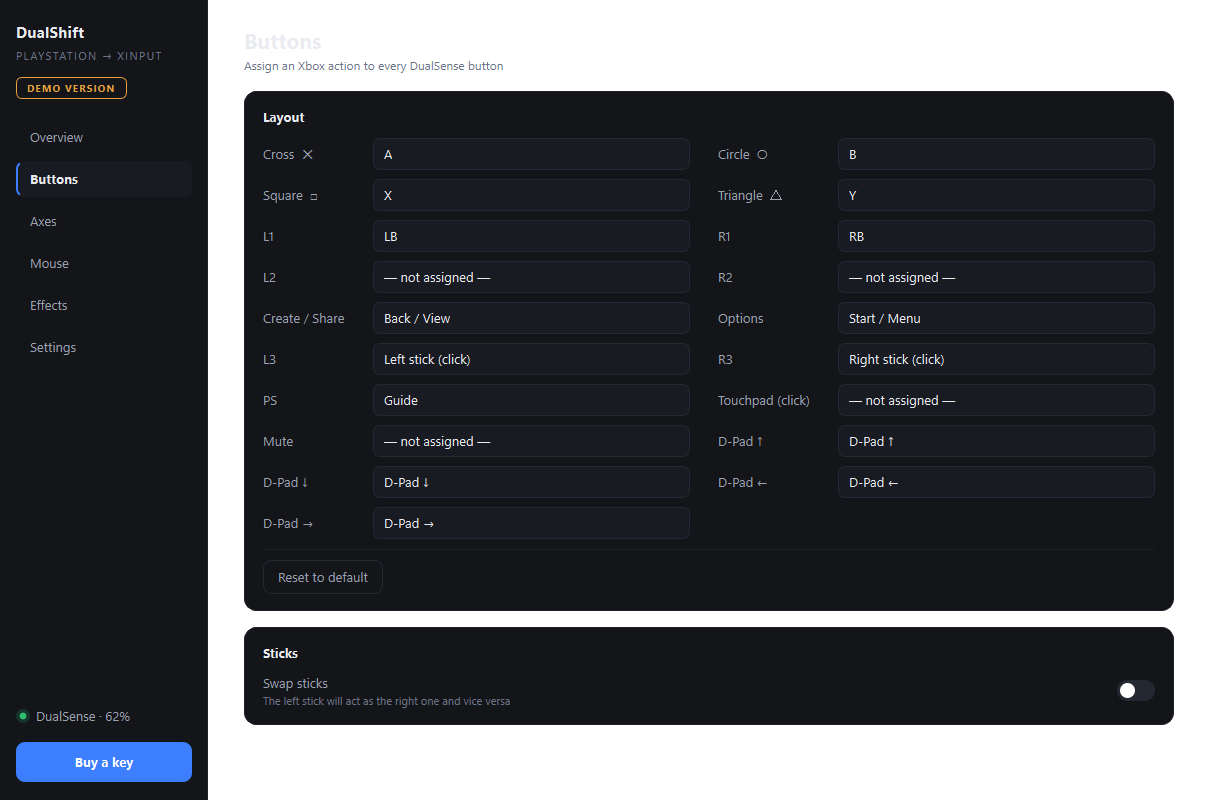
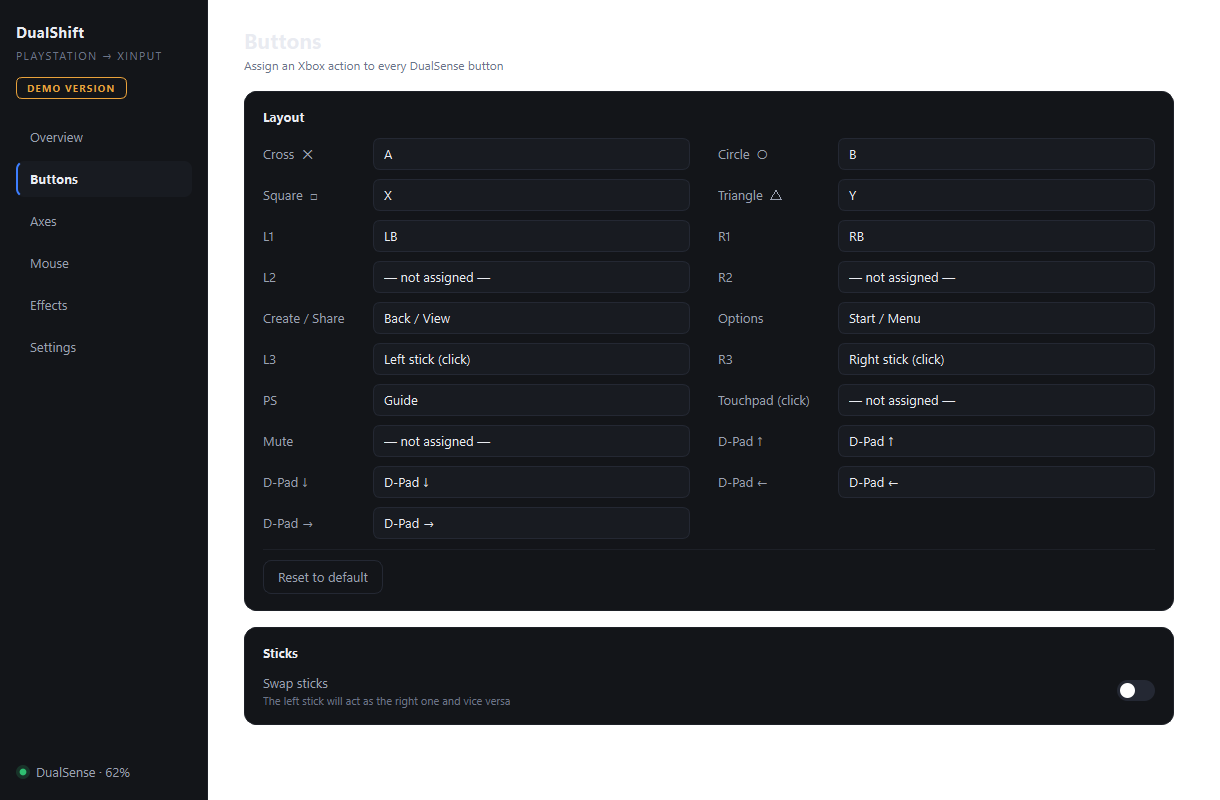
1.0.1 без кнопки в углу: покупка через «Настройки», новый хеш и скриншоты

Changed region(s): [[0.0, 0.875, 0.1557, 1.0]]

diff --git a/docs/release-notes-1.0.1.md b/docs/release-notes-1.0.1.md
@@ -2,7 +2,7 @@ Free for 7 days, every feature unlocked. Windows 10 and 11, 64-bit.
 
 **What's new in 1.0.1**
 
-- **Buy a key right from the app.** A button in the bottom-left corner opens the DualShift bot in Telegram with your computer code already filled in. Pay with Telegram Stars and the key arrives in the same chat — no forms, no copying codes by hand.
+- **Buy a key right from the app.** Settings → License → **Buy a key** opens the DualShift bot in Telegram with your computer code already filled in. Pay with Telegram Stars and the key arrives in the same chat — no forms, no copying codes by hand.
 - The developer credit moved to Settings → About, so the sidebar stays clean.
 
 **What's inside**
@@ -22,7 +22,7 @@ Already have 1.0.0? Just install on top — your settings, profiles and trial st
 
 **Verify the download**
 
[2 lines of base64/hex data omitted]
 
 ```powershell
 Get-FileHash "$HOME\Downloads\DualShift Demo Setup.exe" -Algorithm SHA256

diff --git a/README.md b/README.md
@@ -78,8 +78,9 @@ nothing is watermarked. After that it needs a key.
 A key is issued for one computer: it is tied to the machine ID, so it keeps
 working after a reinstall of the program, but not on a second PC.
 
-**The quickest way to buy:** press **Buy a key** in the bottom-left corner of
-the program. It opens [@DualShift_bot](https://t.me/DualShift_bot) in
+**The quickest way to buy:** open **Settings → License** in the program and
+press **Buy a key** (when the trial runs out, the same button also appears on
+the Overview page). It opens [@DualShift_bot](https://t.me/DualShift_bot) in
 Telegram with your computer code already filled in — pay with Telegram Stars
 and the key arrives in the same chat, usually within seconds.
 
@@ -99,7 +100,7 @@ the Telegram link so the bot knows which computer to issue the key for.
 `DualShift Demo Setup.exe` 1.0.1 — 46.5 MB
 
 ```
-SHA-256  f43afdc8b73cd5c14e3e184f9a8f3a363755cd3003a90a00dd155358b780efdc
+SHA-256  bdc3b8c5a442cbb23d29e0db1d0ea77d464ac82fe2f7e9e9f42bb5519f20f4b8
 ```
 
 Check it in PowerShell before running:
